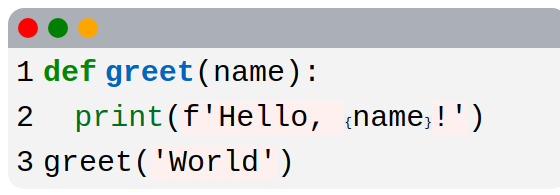
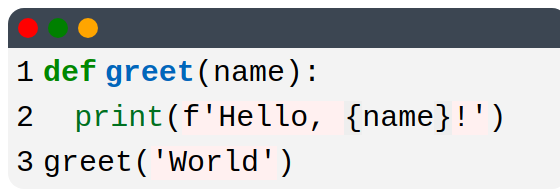
Update

Changed region(s): [[0.0, 0.0308, 1.0, 0.2462], [0.6071, 0.5231, 0.9107, 0.6769]]

diff --git a/app.py b/app.py
@@ -63,7 +63,7 @@ def Wrap_Code(code,color_bar="rgb(171, 176, 182)",color_window="rgb(243, 243, 24
     </div>
     """.format(MAX_CHAR,color_bar)
     CUSTOM_CSS  = """
-    .normal,.p,.nb,.n,.s1,.sa,.k,.nf{{ 
+    .normal,.p,.nb,.n,.s1,.sa,.k,.nf,.hll,.c,.err,.k,.o,.ch,.cm,.cp,.cpf,.c1,.cs,.gd,.ge,.ges,.gr,.gh,.gi,.go,.gp,.gs,.gu,.gt,.kc,.kd,.kn,.kp,.kr,.kt,.m,.s,.na,.nb,.nc,.no,.nd,.ni,.ne,.nf,.nl,.nn,.nt,.nv,.ow,.w,.mb,.mf,.mh,.mi,.mo,.sa,.sb,.sc,.dl,.sd,.s2,.se,.sh,.si,.sx,.sr,.s1,.ss,.bp,.fm,.vc,.vg,.vi,.vm,.il{{ 
             font-size:30px;
             height:35px;
     }}
